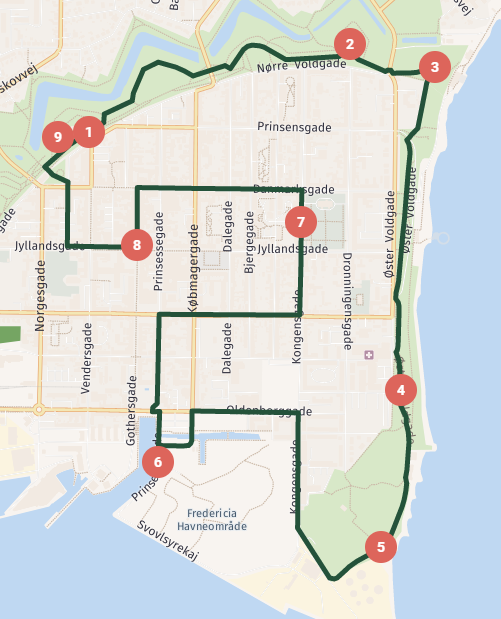
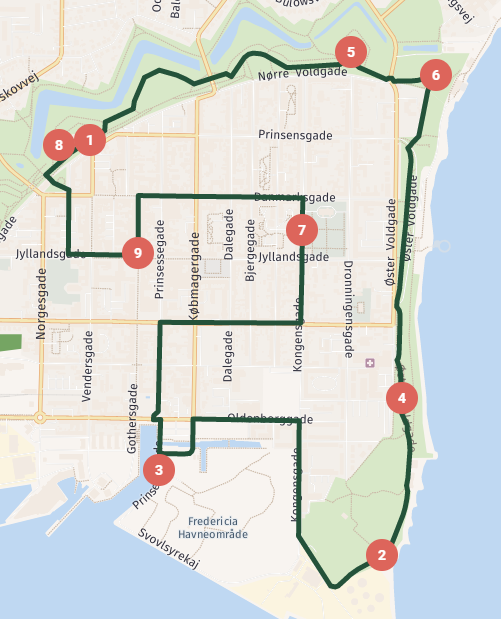
Digterrute hack

diff --git a/elements/core/main-menu/main-menu.html b/elements/core/main-menu/main-menu.html
@@ -45,7 +45,7 @@
         }
 */
         .digterruter-item.main-menu {
-            background-image: url(http://localhost:51169/images/theme/DanskeDigterruterLogo.png);
+            background-image: url(../../../images/theme/DanskeDigterruterLogo.png);
             background-color: #24523a;
             background-position: center 40px;
             background-repeat: no-repeat;
@@ -120,13 +120,10 @@
                     <paper-item on-tap="profGuidelinesTap">Retningslinjer for formidling</paper-item>
                 </template>
             </iron-collapse>
-            <div style="flex-grow:1; display:flex; flex-direction: column; align-items: center;">
-                <!--<div style="flex-grow:1"></div>-->
-                <!--<div class="new-theme">Nyt tema</div>-->
-                <!--<paper-item class="modstandskamp-item" on-tap="tapModstandskamp">Nedkastninger og sabotage i Danmark 1940 - 1945</paper-item>-->
+            <!--<div style="flex-grow:1; display:flex; flex-direction: column; align-items: center;">
                 <paper-item class="digterruter-item" on-tap="tapDigterruter">Nyt tema:</paper-item>
                 <div style="flex-grow:1"></div>
-            </div>
+            </div>-->
         </iron-collapse>
     </template>
 </dom-module>

diff --git a/classes/HAClasses/hacollection.ts b/classes/HAClasses/hacollection.ts
@@ -179,7 +179,20 @@
         var i = 0;
         for (var cg of this._collection_geos) {
             if (cg.geo == geo) {
-                return cg.showOnMap ? i : -1;
+                if (!cg.showOnMap)
+                    return -1;
+
+                if (this.id == 516) //digterruter hack (Carit Etlar)... 
+                    switch (i + 1) {
+                        case 2: i = 5 - 1; break;
+                        case 5: i = 2 - 1; break;
+                        case 3: i = 6 - 1; break;
+                        case 6: i = 3 - 1; break;
+                        case 8: i = 9 - 1; break;
+                        case 9: i = 8 - 1; break;
+                    }
+
+                return i;
             }
             if (cg.isViaPoint && cg.showOnMap)
                 i++;

diff --git a/classes/Map/RouteLayer.ts b/classes/Map/RouteLayer.ts
@@ -163,15 +163,6 @@
 
         if ((<any>feature).loc) {
             var number = collection.viaPointOrdering((<HaCollectionGeo>(<any>feature).collection_geo).geo);
-            //if (collection.id == 516) //digterruter hack... not working....
-            //    switch (number) {
-            //        case 2: number = 5;
-            //        case 5: number = 2;
-            //        case 3: number = 6;
-            //        case 6: number = 3;
-            //        case 8: number = 9;
-            //        case 9: number = 8;
-            //    }
             return [
                 new ol.style.Style({
                     image: new ol.style.Icon({

diff --git a/css/themes/theme-digterruter.css b/css/themes/theme-digterruter.css
@@ -26,6 +26,9 @@
     color: var(--digterruter-red);
     text-decoration: none;
 }
+.theme-digterruter .institution.by-line {
+    color: var(--digterruter-red);
+}
 
 .theme-digterruter paper-toolbar.medium-tall.main-app {
     height: 64px !important;
